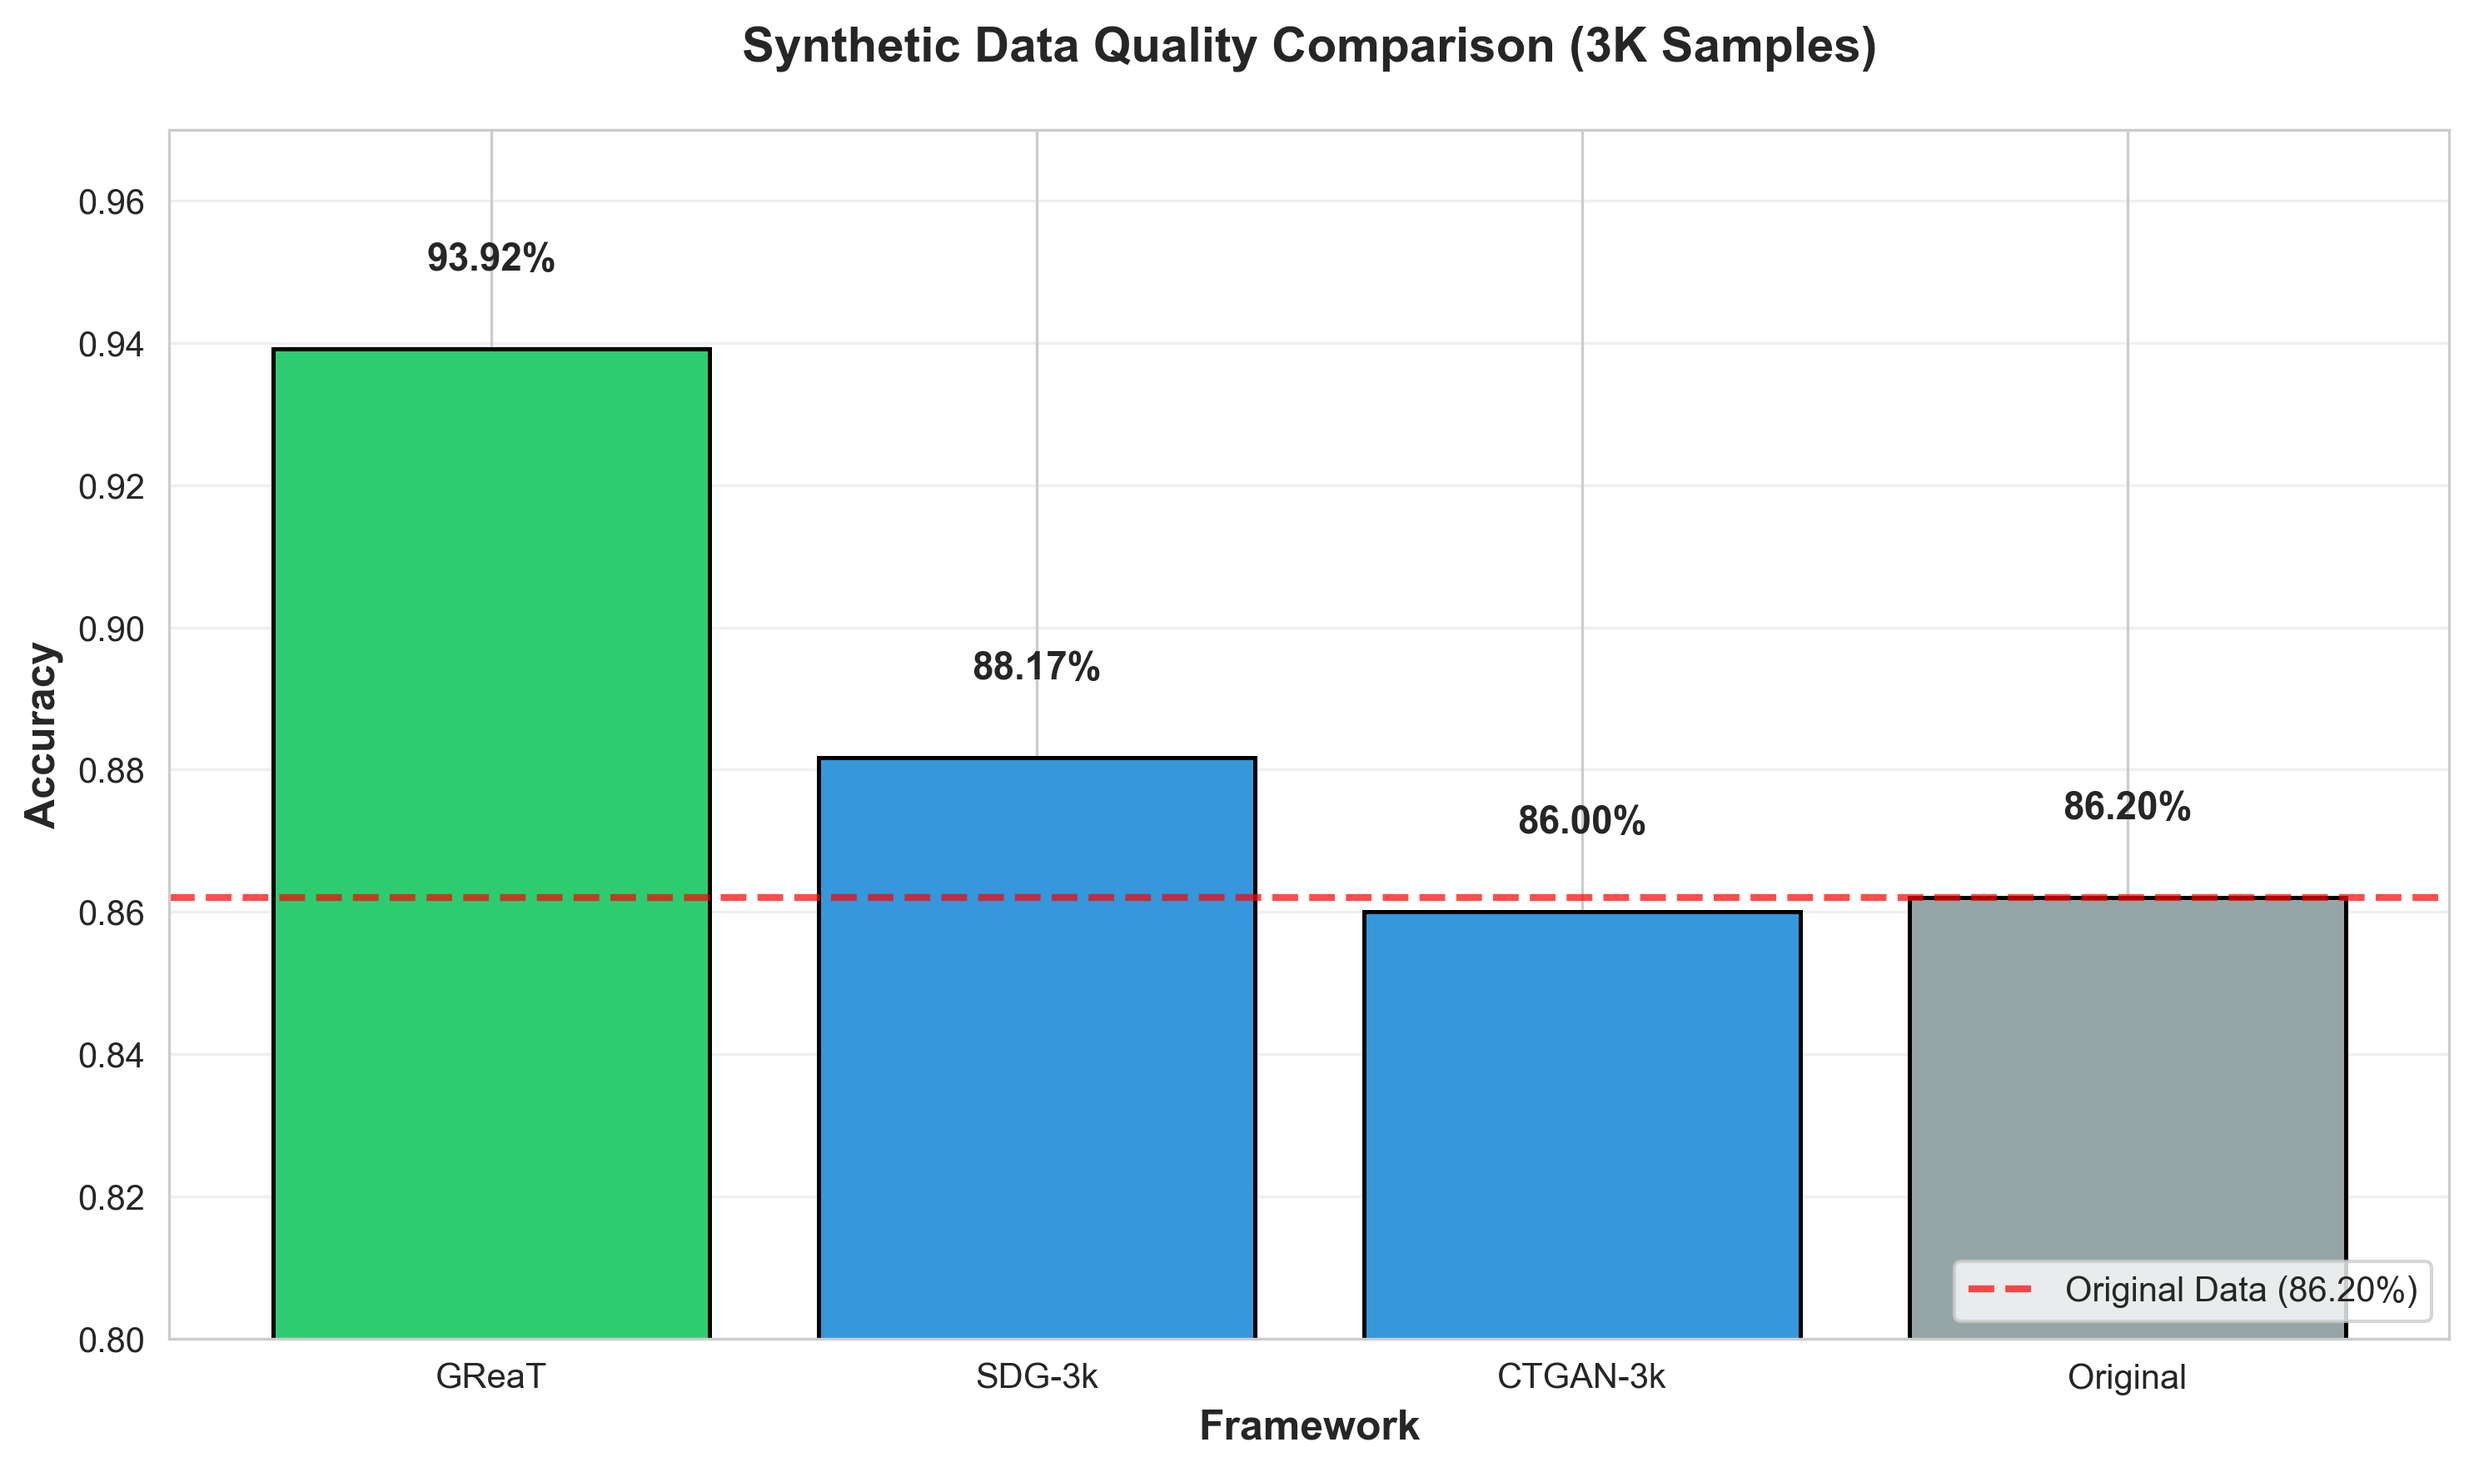
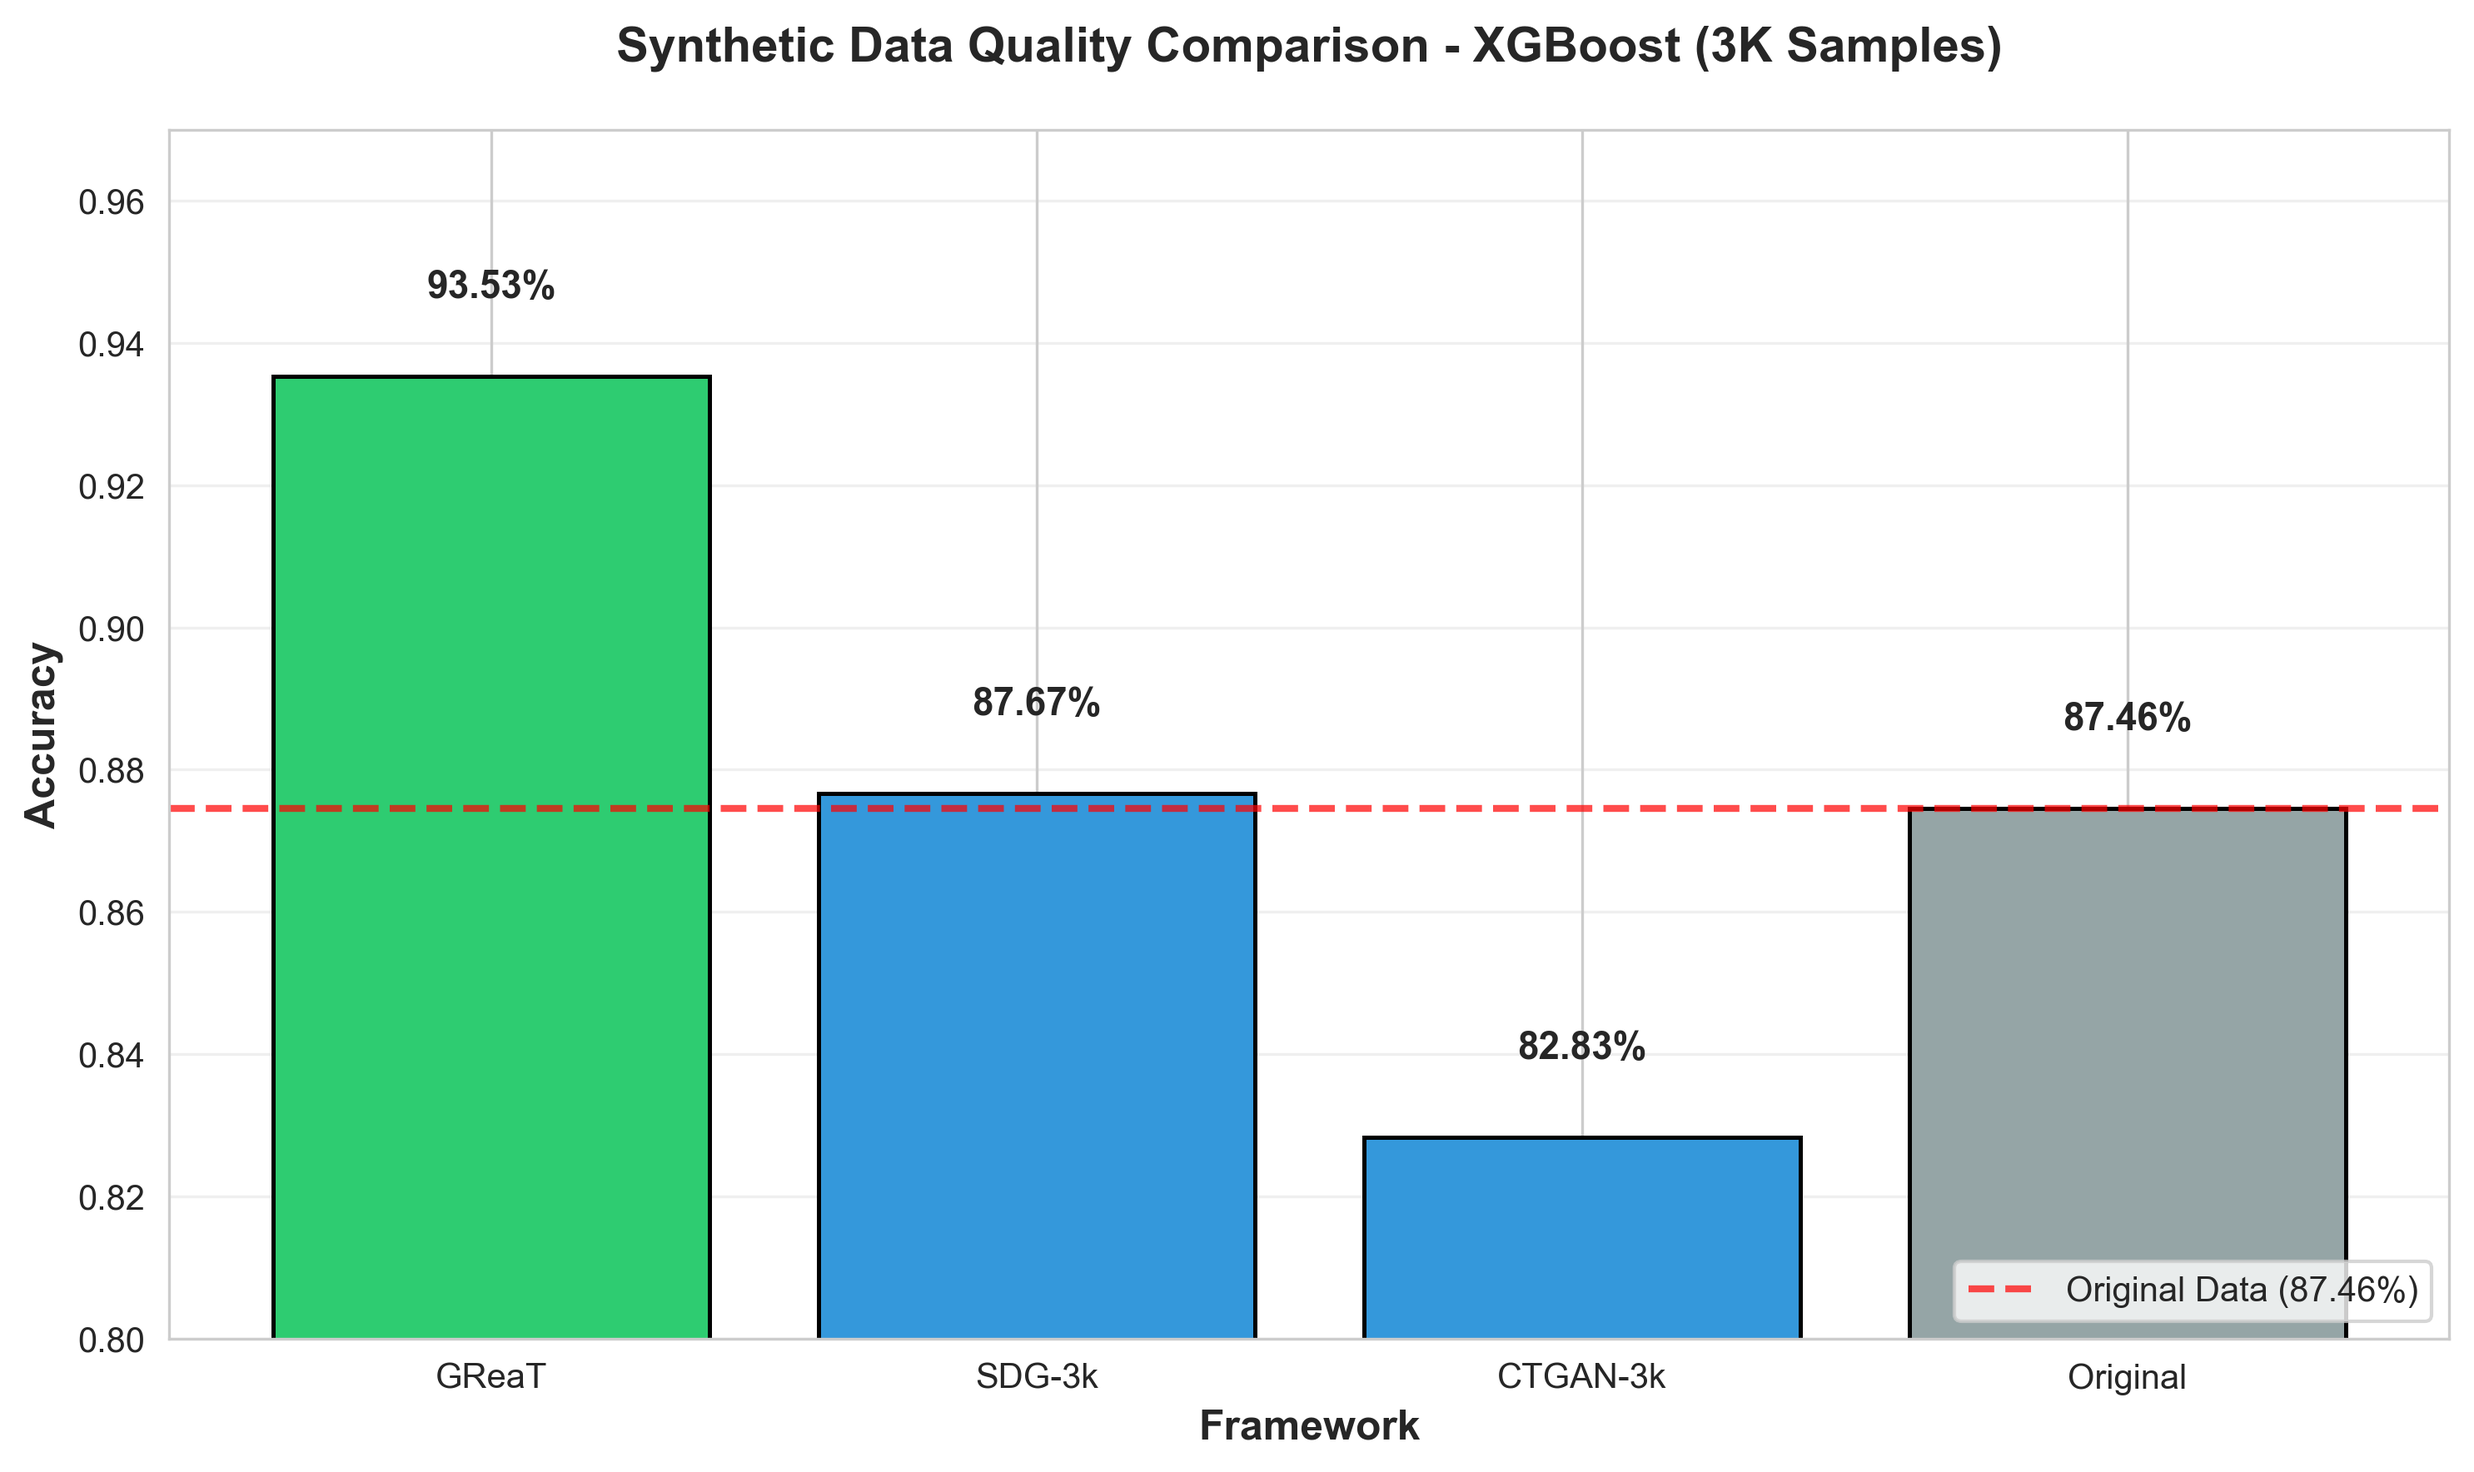
chore: Update comparison chart with XGBoost results
Update accuracy values to reflect XGBoost evaluation:
- GReaT: 93.53% (was 93.92%)
- SDG-3k: 87.67% (was 88.17%)
- CTGAN-3k: 82.83% (was 86.00%)
- Original: 87.46% (was 86.20%)

Chart title updated to indicate XGBoost evaluation.

diff --git a/src/visualize.py b/src/visualize.py
@@ -6,12 +6,12 @@ import matplotlib.pyplot as plt
 import seaborn as sns
 import pandas as pd
 
-# Results data
+# Results data (XGBoost evaluation)
 results = {
     'Framework': ['GReaT', 'SDG-3k', 'CTGAN-3k', 'Original'],
     'Type': ['LLM', 'GAN', 'GAN', 'Real'],
-    'Accuracy': [0.9392, 0.8817, 0.8600, 0.8620],
-    'Samples': [2549, 3000, 3000, 32561]
+    'Accuracy': [0.9353, 0.8767, 0.8283, 0.8746],
+    'Samples': [3000, 3000, 3000, 32561]
 }
 
 df = pd.DataFrame(results)
@@ -32,12 +32,12 @@ for bar in bars:
             ha='center', va='bottom', fontsize=11, fontweight='bold')
 
 # Add baseline line
-ax.axhline(y=0.8620, color='red', linestyle='--', linewidth=2, alpha=0.7, label='Original Data (86.20%)')
+ax.axhline(y=0.8746, color='red', linestyle='--', linewidth=2, alpha=0.7, label='Original Data (87.46%)')
 
 # Styling
 ax.set_ylabel('Accuracy', fontsize=12, fontweight='bold')
 ax.set_xlabel('Framework', fontsize=12, fontweight='bold')
-ax.set_title('Synthetic Data Quality Comparison (3K Samples)', fontsize=14, fontweight='bold', pad=20)
+ax.set_title('Synthetic Data Quality Comparison - XGBoost (3K Samples)', fontsize=14, fontweight='bold', pad=20)
 ax.set_ylim(0.80, 0.97)
 ax.legend(loc='lower right', fontsize=10)
 ax.grid(axis='y', alpha=0.3)
